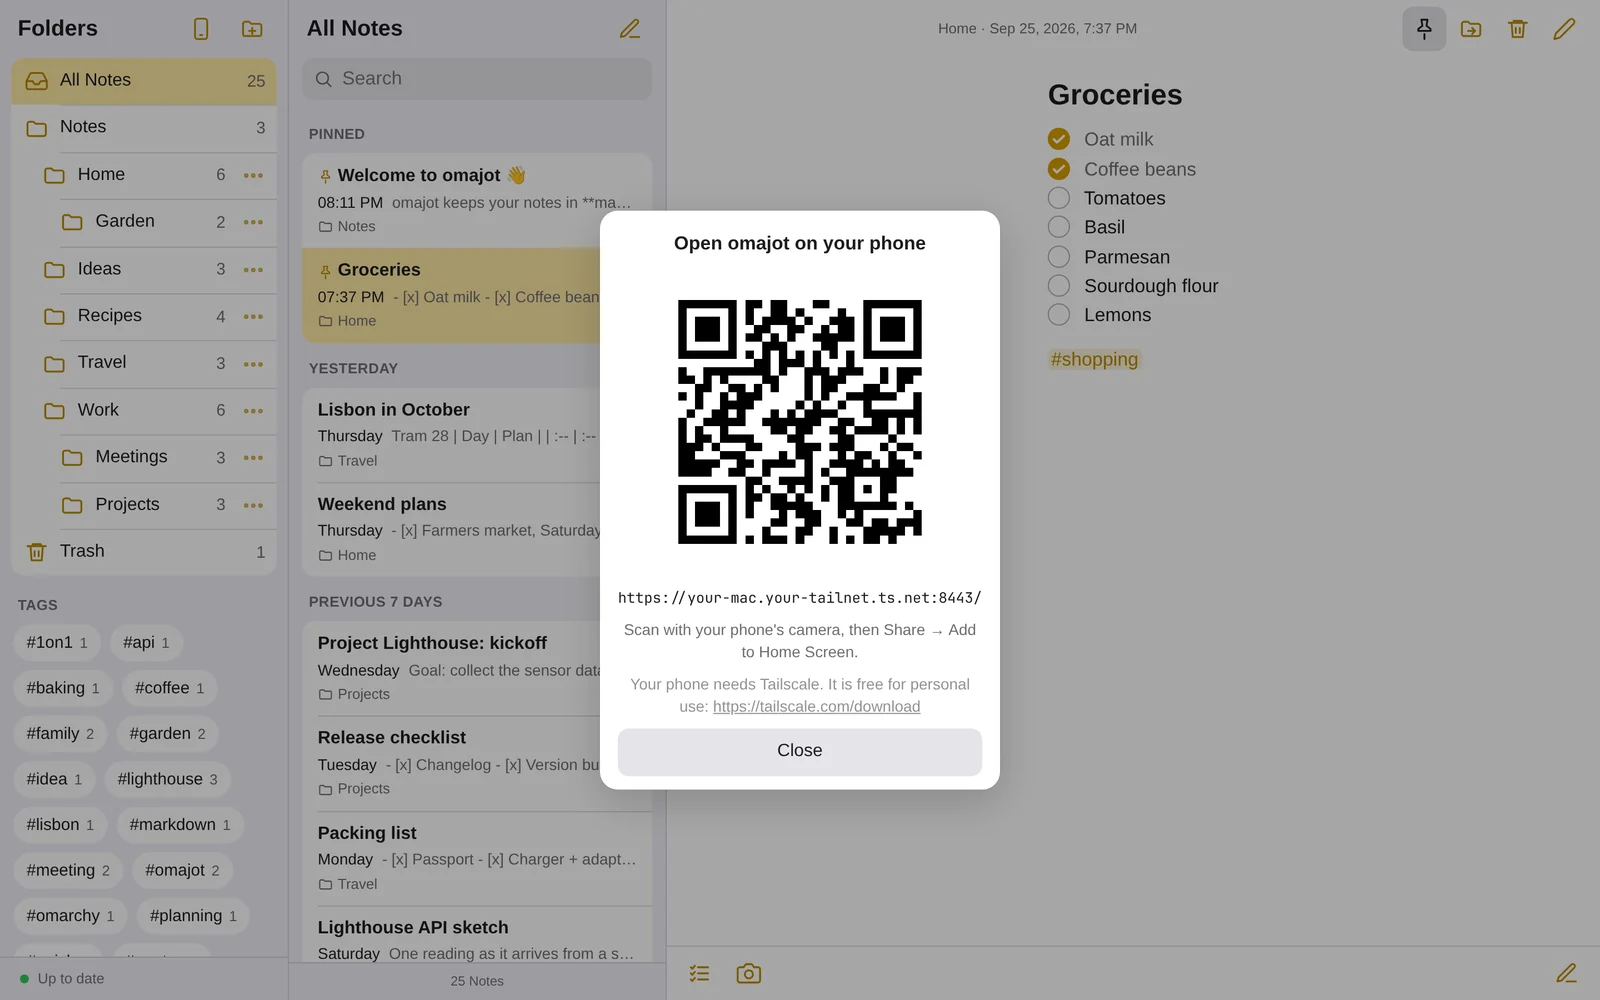
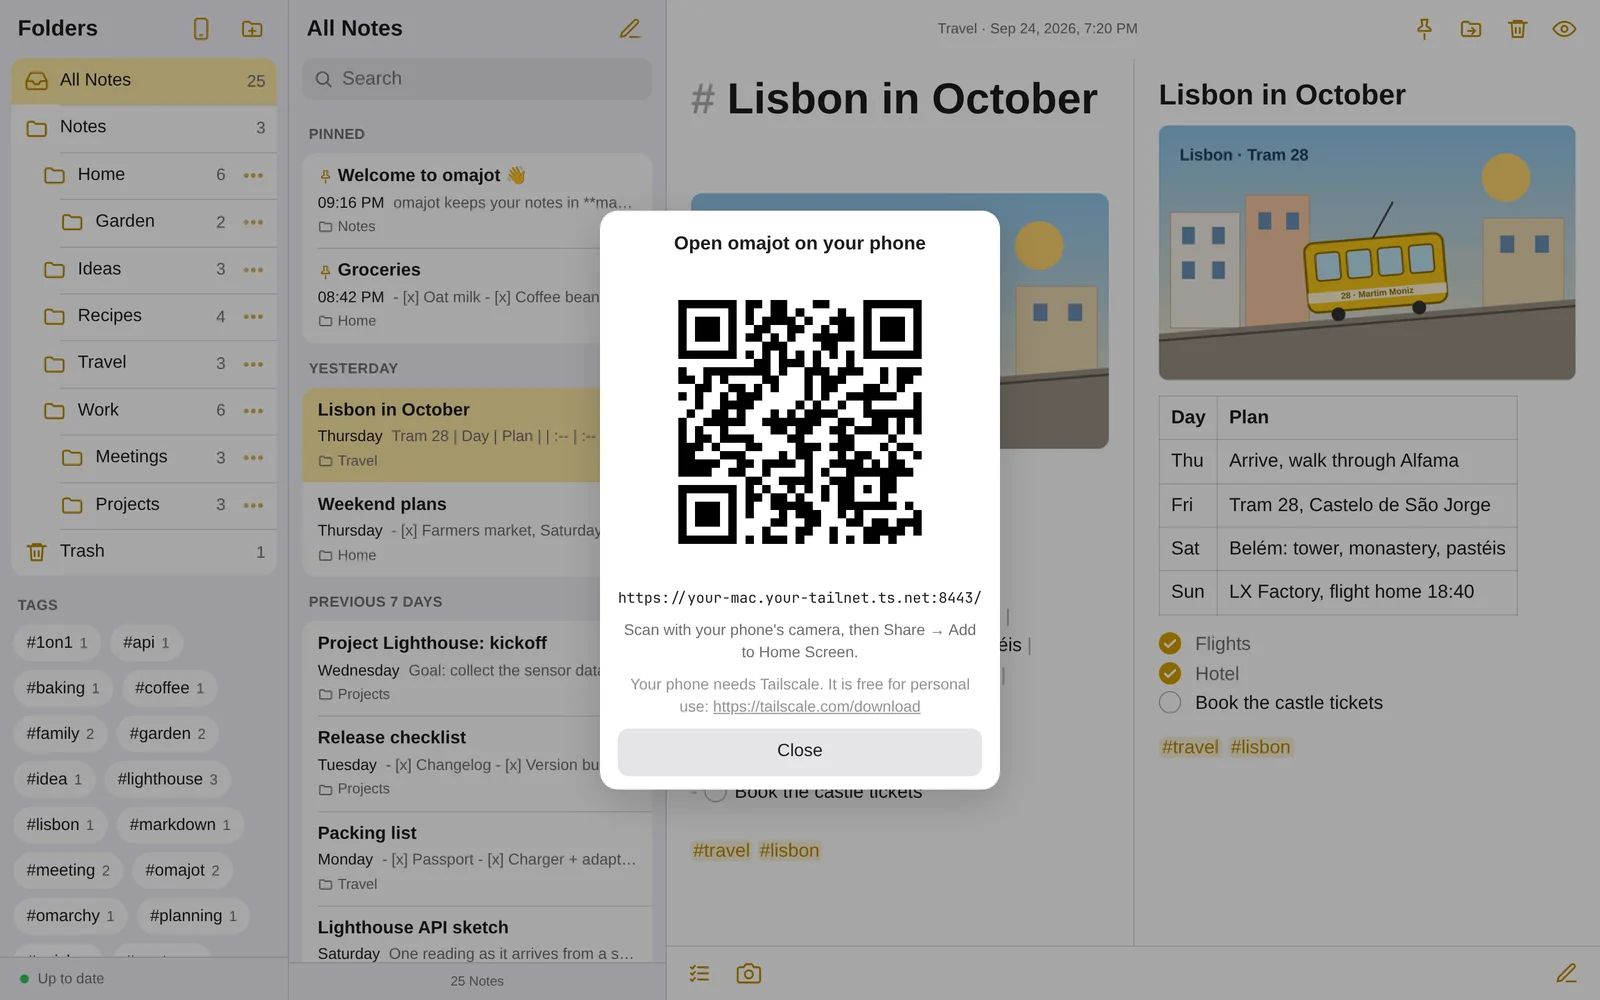
Show the Lisbon note as a rendered preview in the hero shot
The hero and the README now show the note in preview only (desktop-note)
instead of markdown source next to the preview; the Using page keeps the
split shot where it explains that layout. Web shots are regenerated with
the cool dark greys.

diff --git a/site/pages/index.html b/site/pages/index.html
@@ -9,7 +9,7 @@
     <a class="btn" href="under-the-hood.html">Under the hood</a>
   </div>
   <div class="pills"><span>Zig 0.16</span><span>CRDT sync</span><span>offline first</span><span>Quickshell plugin</span><span>installable web app</span><span>everything bounded</span></div>
-  <div class="hero-shot">{{shot:desktop-split:The omajot web app with folders, the note list and a note in split view with a picture, a table and a checklist}}</div>
+  <div class="hero-shot">{{shot:desktop-note:The omajot web app with folders, the note list and a note in split view with a picture, a table and a checklist}}</div>
 </section>
 
 <section class="band">

diff --git a/README.md b/README.md
@@ -10,8 +10,8 @@ phone. Your own small Zig hub syncs all devices over
 **[Documentation and screenshots →](https://renerocksai.github.io/omajot/)**
 
 <picture>
-  <source media="(prefers-color-scheme: dark)" srcset="site/assets/shots/desktop-split-dark.webp">
-  <img alt="The omajot web app: folders and tags, the note list, and a note with a picture, a table and a checklist in split view" src="site/assets/shots/desktop-split-light.webp">
+  <source media="(prefers-color-scheme: dark)" srcset="site/assets/shots/desktop-note-dark.webp">
+  <img alt="The omajot web app: folders and tags, the note list, and a note with a picture, a table and a checklist in split view" src="site/assets/shots/desktop-note-light.webp">
 </picture>
 
 ## No Omarchy? No Linux? No problem.
